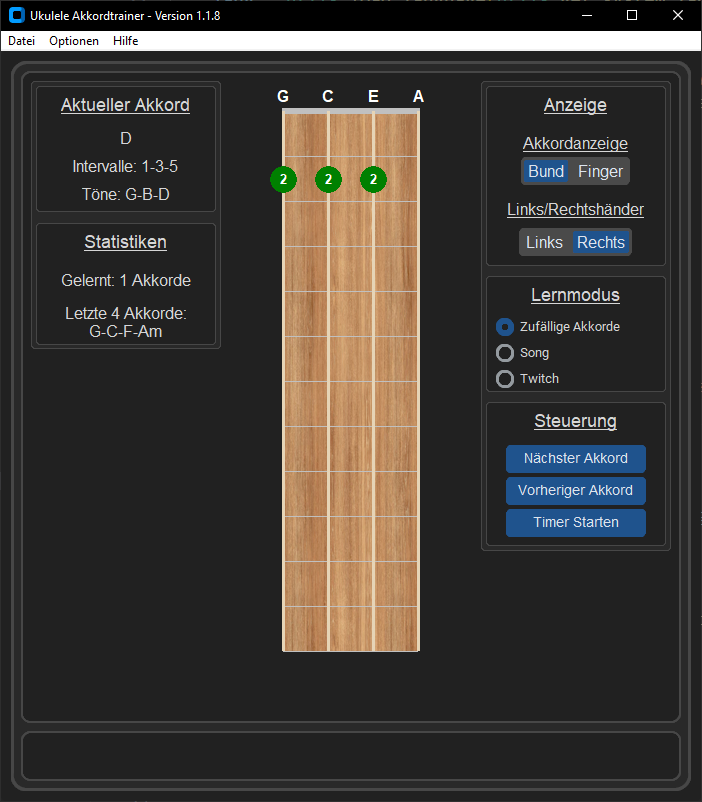
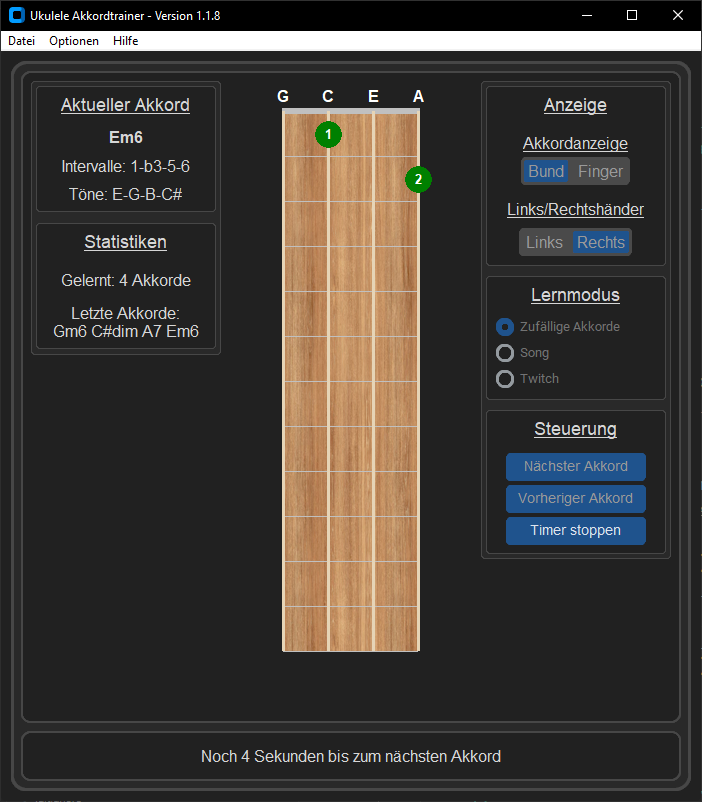
chore(i18n): update German and English translation files

diff --git a/gui/chordTrainerGUIDefault.py b/gui/chordTrainerGUIDefault.py
@@ -10,7 +10,11 @@ class DefaultChordTrainerGUI(ctk.CTkFrame):
         super().__init__(master)
         self.chords = chords
         self.lang = lang
-        self.modes = ["Zufällige Akkorde", "Song", "Twitch"]
+        self.modes = [
+            f"{self.lang['trainer_mode_random']}", 
+            f"{self.lang['trainer_mode_song']}", 
+            f"{self.lang['trainer_mode_twitch']}"
+            ]
         self.mode_var = ctk.StringVar(value="Zufällige Akkorde")
 
         self.build_widgets()
@@ -50,26 +54,23 @@ class DefaultChordTrainerGUI(ctk.CTkFrame):
         self.fretboard_middle.update_theme()
 
     def update_previous_chords(self):
-        # TODO add translation functionality
-        self.chord_history.configure(text="Letzte Akkorde:\n" + " ".join(config.PAST_CHORDS))
+        self.chord_history.configure(text=f"{self.lang['chord_history']}\n" + " ".join(config.PAST_CHORDS))
 
     def update_interval(self, chord):
-        # TODO add translation functionality
         chord_obj = next((c for c in self.chords if c["name"].lower() == chord.lower()), None)
         if chord_obj:
             intervals = chord_obj.get("intervals", [])
-            self.chord_interval.configure(text=f"Intervalle: {'-'.join(intervals)}")
+            self.chord_interval.configure(text=f"{self.lang['chord_interval']} {'-'.join(intervals)}")
         else:
-            self.chord_interval.configure(text="Intervalle: Unbekannt")
+            self.chord_interval.configure(text=f"{self.lang['error_intervals']}")
 
     def update_chord_tones(self, chord):
-        # TODO add translation functionality
         chord_obj = next((c for c in self.chords if c["name"].lower() == chord.lower()), None)
         if chord_obj:
             tones = chord_obj.get("chord_notes", [])
-            self.chord_tones.configure(text=f"Töne: {'-'.join(tones)}")
+            self.chord_tones.configure(text=f"{self.lang['chord_notes']} {'-'.join(tones)}")
         else:
-            self.chord_tones.configure(text="Töne: Unbekannt")
+            self.chord_tones.configure(text=f"{self.lang['error_notes']}")
 
 
     def build_widgets(self):
@@ -95,7 +96,7 @@ class DefaultChordTrainerGUI(ctk.CTkFrame):
         self.chord_info_frame = ctk.CTkFrame(self.left_frame, border_width=1, corner_radius=5)
         self.chord_info_frame.pack(fill="x", padx=5, pady=5)
 
-        self.current_chord_label = ctk.CTkLabel(self.chord_info_frame, text="Aktueller Akkord", font=(config.BASE_FONT, 18, "underline"))
+        self.current_chord_label = ctk.CTkLabel(self.chord_info_frame, text=f"{self.lang['current_chord']}", font=(config.BASE_FONT, 18, "underline"))
         self.current_chord_label.pack(expand=True, pady=5)
 
         self.current_chord = ctk.CTkLabel(self.chord_info_frame, text="", font=(config.BASE_FONT, 16, "bold"))
@@ -111,7 +112,7 @@ class DefaultChordTrainerGUI(ctk.CTkFrame):
         self.chord_stats_frame = ctk.CTkFrame(self.left_frame, border_width=1, corner_radius=5)
         self.chord_stats_frame.pack(fill="x", padx=5, pady=5)
 
-        self.chord_stats_label = ctk.CTkLabel(self.chord_stats_frame, text="Statistiken", font=(config.BASE_FONT, 18, "underline"))
+        self.chord_stats_label = ctk.CTkLabel(self.chord_stats_frame, text=f"{self.lang['chord_statistics']}", font=(config.BASE_FONT, 18, "underline"))
         self.chord_stats_label.pack(expand=True, pady=5)
 
         self.learned_label = ctk.CTkLabel(self.chord_stats_frame, text="", wraplength=170, font=(config.BASE_FONT, 16))
@@ -137,28 +138,28 @@ class DefaultChordTrainerGUI(ctk.CTkFrame):
         self.display_settings_frame = ctk.CTkFrame(self.right_frame, border_width=1, corner_radius=5)
         self.display_settings_frame.pack(fill="x", padx=5, pady=5)
 
-        self.display_settings_label = ctk.CTkLabel(self.display_settings_frame, text="Anzeige", font=(config.BASE_FONT, 18, "underline"))
+        self.display_settings_label = ctk.CTkLabel(self.display_settings_frame, text=f"{self.lang['chord_display_headline']}", font=(config.BASE_FONT, 18, "underline"))
         self.display_settings_label.pack(expand=True, pady=5)
 
-        self.fingering_setting_label = ctk.CTkLabel(self.display_settings_frame, text="Akkordanzeige", font=(config.BASE_FONT, 16, "underline"))
+        self.fingering_setting_label = ctk.CTkLabel(self.display_settings_frame, text=f"{self.lang['chord_display_setting']}", font=(config.BASE_FONT, 16, "underline"))
         self.fingering_setting_label.pack(expand=True, pady=(5, 0))
 
-        self.fingering_setting = ctk.CTkSegmentedButton(self.display_settings_frame, values=["Bund", "Finger"], font=(config.BASE_FONT, 16), state="disabled")
-        self.fingering_setting.set("Bund")
+        self.fingering_setting = ctk.CTkSegmentedButton(self.display_settings_frame, values=[f"{self.lang['chord_setting_frets']}", f"{self.lang['chord_setting_fingering']}"], font=(config.BASE_FONT, 16), state="disabled")
+        self.fingering_setting.set(f"{self.lang['chord_setting_frets']}")
         self.fingering_setting.pack(expand=True, pady=(0, 5))
 
-        self.left_hand_display = ctk.CTkLabel(self.display_settings_frame, text="Links/Rechtshänder", font=(config.BASE_FONT, 16, "underline"))
+        self.left_hand_display = ctk.CTkLabel(self.display_settings_frame, text=f"{self.lang['chord_hand_preference']}", font=(config.BASE_FONT, 16, "underline"))
         self.left_hand_display.pack(expand=True, pady=5)
 
-        self.left_hand_setting = ctk.CTkSegmentedButton(self.display_settings_frame, values=["Links", "Rechts"], font=(config.BASE_FONT, 16), state="disabled")
-        self.left_hand_setting.set("Rechts")
+        self.left_hand_setting = ctk.CTkSegmentedButton(self.display_settings_frame, values=[f"{self.lang['chord_hand_left']}", f"{self.lang['chord_hand_right']}"], font=(config.BASE_FONT, 16), state="disabled")
+        self.left_hand_setting.set(f"{self.lang['chord_hand_right']}")
         self.left_hand_setting.pack(expand=True, padx=10, pady=(0, 10))
 
         # learnmode frame
         self.mode_frame = ctk.CTkFrame(self.right_frame, border_width=1, corner_radius=5)
         self.mode_frame.pack(fill="x", padx=5, pady=5)
 
-        self.mode_label = ctk.CTkLabel(self.mode_frame, text="Lernmodus", font=(config.BASE_FONT, 18, "underline"))
+        self.mode_label = ctk.CTkLabel(self.mode_frame, text=f"{self.lang['trainer_learnmode']}", font=(config.BASE_FONT, 18, "underline"))
         self.mode_label.pack(expand=True, pady=5)
 
         for index, mode in enumerate(self.modes):
@@ -170,7 +171,7 @@ class DefaultChordTrainerGUI(ctk.CTkFrame):
         self.control_frame = ctk.CTkFrame(self.right_frame, border_width=1, corner_radius=5)
         self.control_frame.pack(fill="x", padx=5, pady=5)
 
-        self.controls_label = ctk.CTkLabel(self.control_frame, text="Steuerung", font=(config.BASE_FONT, 18, "underline"))
+        self.controls_label = ctk.CTkLabel(self.control_frame, text=f"{self.lang['trainer_controls']}", font=(config.BASE_FONT, 18, "underline"))
         self.controls_label.pack(expand=True, pady=5)
 
         self.next_chord_button = ctk.CTkButton(
@@ -179,7 +180,7 @@ class DefaultChordTrainerGUI(ctk.CTkFrame):
             command=lambda: self.logic.next_chord(self.lang))
         self.next_chord_button.pack(pady=(5, 2))
 
-        self.prev_chord = ctk.CTkButton(self.control_frame, text="Vorheriger Akkord", font=(config.BASE_FONT, 14), state="disabled")
+        self.prev_chord = ctk.CTkButton(self.control_frame, text=f"{self.lang['previous_chord_button']}", font=(config.BASE_FONT, 14), state="disabled")
         self.prev_chord.pack(pady=2)
 
         self.timer_button = ctk.CTkButton(

diff --git a/main.py b/main.py
@@ -19,6 +19,8 @@ def main():
     ctk.set_appearance_mode(config_data["theme"])  # "Dark" (standard), "Light", "System"
     ctk.set_default_color_theme("dark-blue")  # "blue" (standard), "green", "dark-blue"
     
+    # for debug purposes
+    # lang = utils.load_language("en_US")
     lang = utils.load_language(utils.get_system_language())
     utils.set_font(config.LANG_CODE)
 
@@ -44,7 +46,6 @@ def main():
     # debug
     # root.update()  # Layout erzwingen
     # print(f"Fenstergröße nach update(): {root.winfo_width()}x{root.winfo_height()}")
-
 
     root.mainloop()
 
